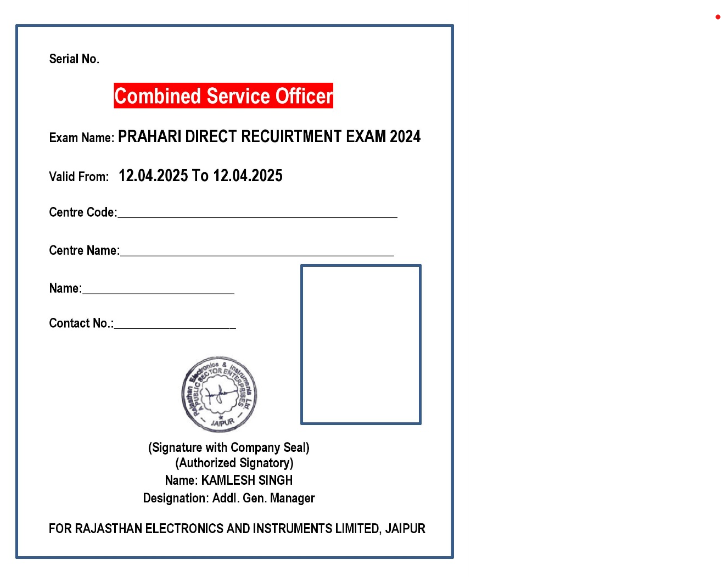
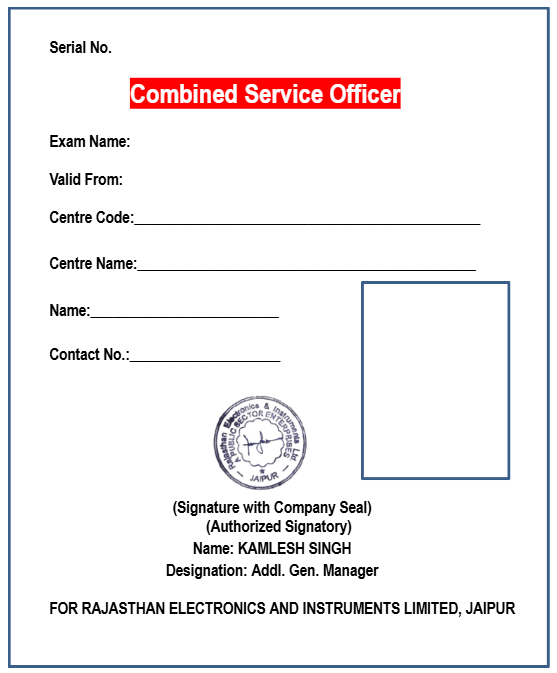
variable exam name and date

Changed region(s): [[0.0, 0.0, 1.0, 0.9983]]

diff --git a/src/App.jsx b/src/App.jsx
@@ -5,6 +5,8 @@ import IDCard from './components/IDCard';
 
 function App() {
   const [cards, setCards] = useState([]);
+  const [examName,setExamName] = useState('');
+  const[examDate,setExamDate] = useState('');
   const cardRefs = useRef([]);
 
   // Adjust the number of refs when cards change
@@ -24,6 +26,22 @@ function App() {
   return (
     <div style={{ padding: '20px' }}>
       <h2>🪪 Upload Centre Incharge Excel Sheet</h2>
+
+      <input
+        type="text"
+        placeholder="Exam Name"
+        value={examName}
+        onChange={(e) => setExamName(e.target.value)}
+        style={{ marginRight: '10px' }}
+      />
+      <input
+        type="text"
+        placeholder="Exam Date"
+        value={examDate}
+        onChange={(e) => setExamDate(e.target.value)}
+      />
+
+      <br></br>
       <input type="file" accept=".xlsx, .xls" onChange={handleFileUpload} />
 
       <div
@@ -42,6 +60,8 @@ function App() {
               centreName={item['Centre Name']}
               name={item['Name']}
               contact={item['Contact No.']}
+              examName={examName}
+              examDate={examDate}
             />
           </div>
         ))}

diff --git a/src/components/IDCard.jsx b/src/components/IDCard.jsx
@@ -1,7 +1,7 @@
 import React from 'react';
 import './IDCard.css';
 
-const IDCard = ({ serialNo, centreCode, centreName, name, contact }) => {
+const IDCard = ({ serialNo, centreCode, centreName, name, contact,examName,examDate }) => {
   return (
     <div className="idcard">
         <div className="text-overlay serial-no">{serialNo}</div>
@@ -9,6 +9,8 @@ const IDCard = ({ serialNo, centreCode, centreName, name, contact }) => {
       <div className="text-overlay centre-code">{centreCode}</div>
       <div className="text-overlay centre-name">{centreName}</div>
       <div className="text-overlay contact">{contact}</div>
+      <div className="text-overlay exam-name">{examName}</div>
+      <div className="text-overlay exam-date">{examDate}</div>
       
     </div>
   );

diff --git a/src/components/IDCard.css b/src/components/IDCard.css
@@ -17,17 +17,17 @@
   }
   
   .name {
-    top: 290px;
+    top: 268px;
     left: 95px;
   }
   
   .centre-code {
-    top: 210px;
+    top: 185px;
     left: 150px;
   }
   
   .centre-name {
-    top: 235px;
+    top: 215px;
     left: 130px;
     font-size: 11px;
     position: absolute;
@@ -35,12 +35,25 @@
   }
   
   .contact {
-    top: 325px;
+    top: 308px;
     left: 135px;
   }
   
   .serial-no {
-    top: 52px;
+    top: 34px;
     left: 110px;
+  }
+
+  .exam-name {
+    top: 120px;
+    left: 130px;
+    font-size: 14px;
+    
+  }
+  
+  .exam-date {
+    top: 153px;
+    left: 130px;
+    font-size: 14px;
   }
   
